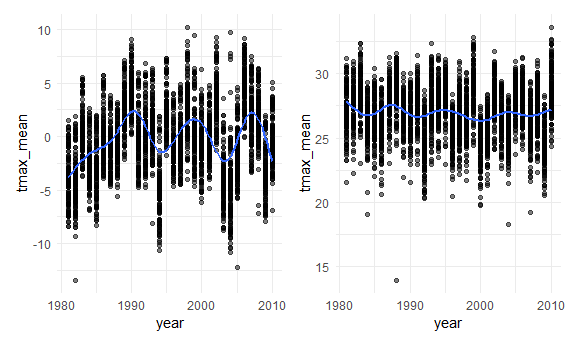
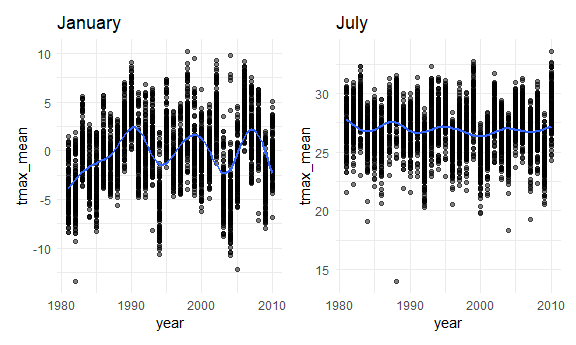
p3-par3

diff --git a/p8105_hw3_LF2649.md b/p8105_hw3_LF2649.md
@@ -348,17 +348,23 @@ tmaxc_mean_jj =
 ``` r
 tmaxc_mean_plot_jan = 
   tmaxc_mean_jj %>% 
-  filter(month == "1") %>% 
+  filter(month ==  "1") %>% 
   ggplot(aes(x = year, y = tmax_mean)) + 
   geom_point(alpha = 0.5) + 
-  geom_smooth(se =  FALSE)
+  geom_smooth(se =  FALSE) +
+  labs(
+    title = "January"
+  )
   
 tmaxc_mean_plot_jul = 
   tmaxc_mean_jj %>% 
   filter(month == "7") %>% 
   ggplot(aes(x = year, y = tmax_mean)) + 
   geom_point(alpha = 0.5) + 
-  geom_smooth(se =  FALSE)
+  geom_smooth(se =  FALSE) + 
+    labs(
+    title = "July"
+  )
 
 tmaxc_mean_plot_jan + tmaxc_mean_plot_jul
 ```
@@ -376,3 +382,19 @@ tmaxc_mean_plot_jan + tmaxc_mean_plot_jul
     ## Warning: Removed 3047 rows containing missing values (geom_point).
 
 <img src="p8105_hw3_LF2649_files/figure-markdown_github/unnamed-chunk-10-1.png" width="90%" />
+
+tmax\_timn plot
+---------------
+
+-   Make a two-panel plot showing
+-   1.  tmax vs tmin for the full dataset (note that a scatterplot may not be the best option); and
+
+-   1.  make a plot showing the distribution of snowfall values greater than 0 and less than 100 separately by year.
+
+``` r
+tmax_tmin_plot = 
+  noaa_sep %>% 
+  ggplot(aes(x = tmax_c, y = tmin_c)) + 
+  geom_line(alpha = 0.5) + 
+  geom_smooth(se = FALSE)
+```
